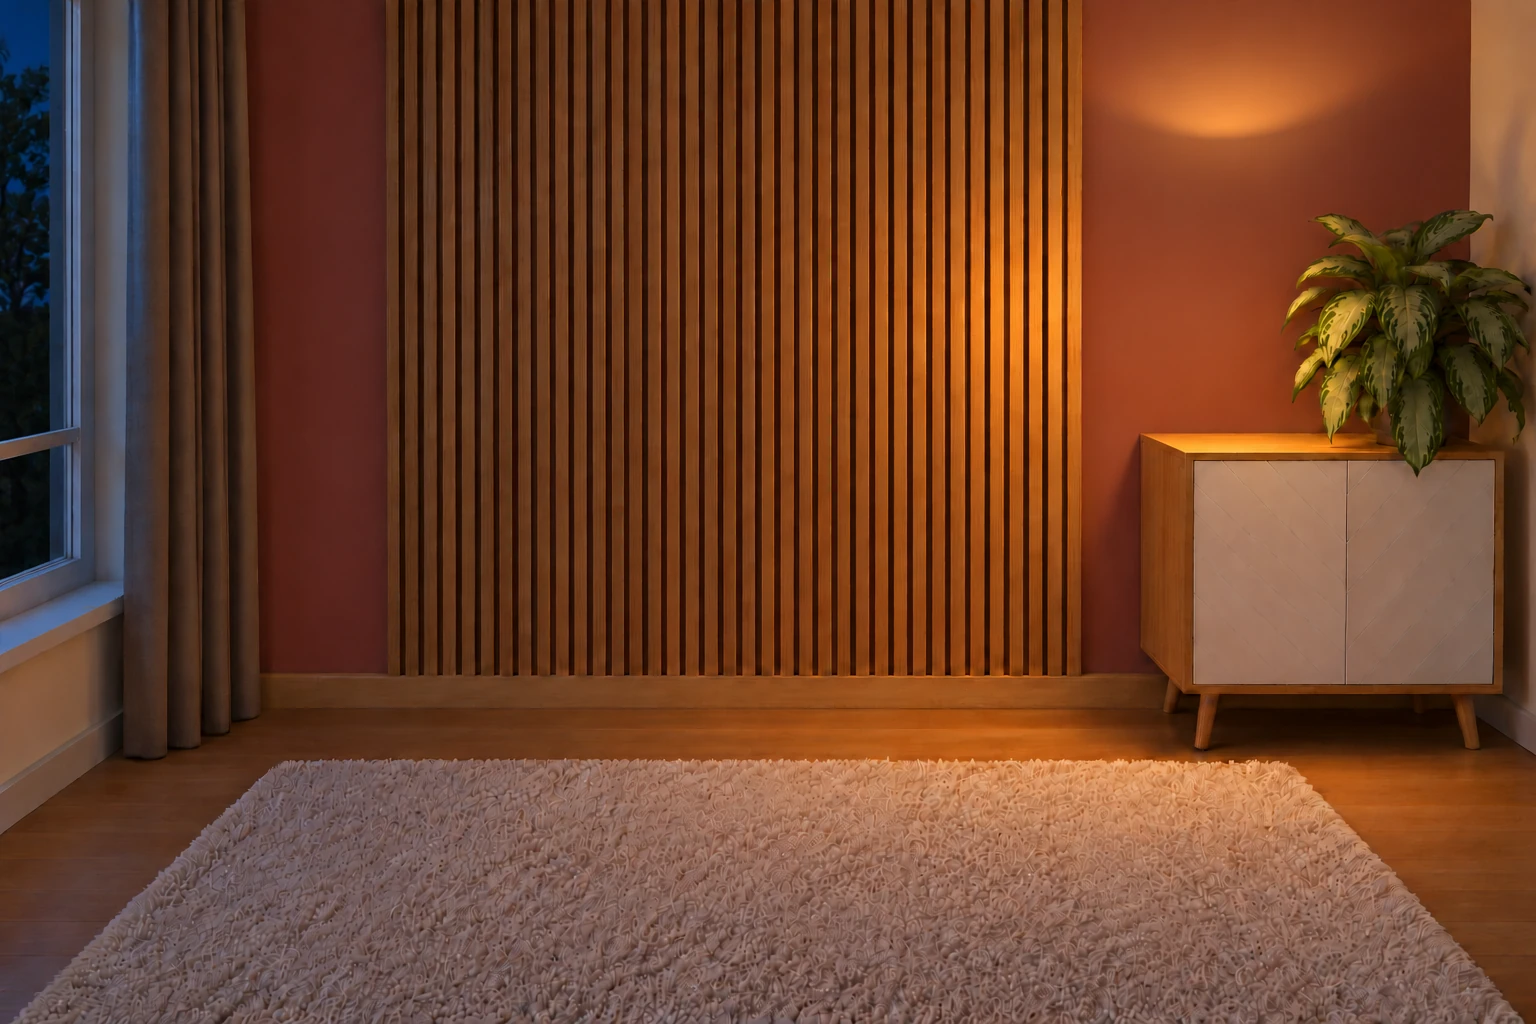
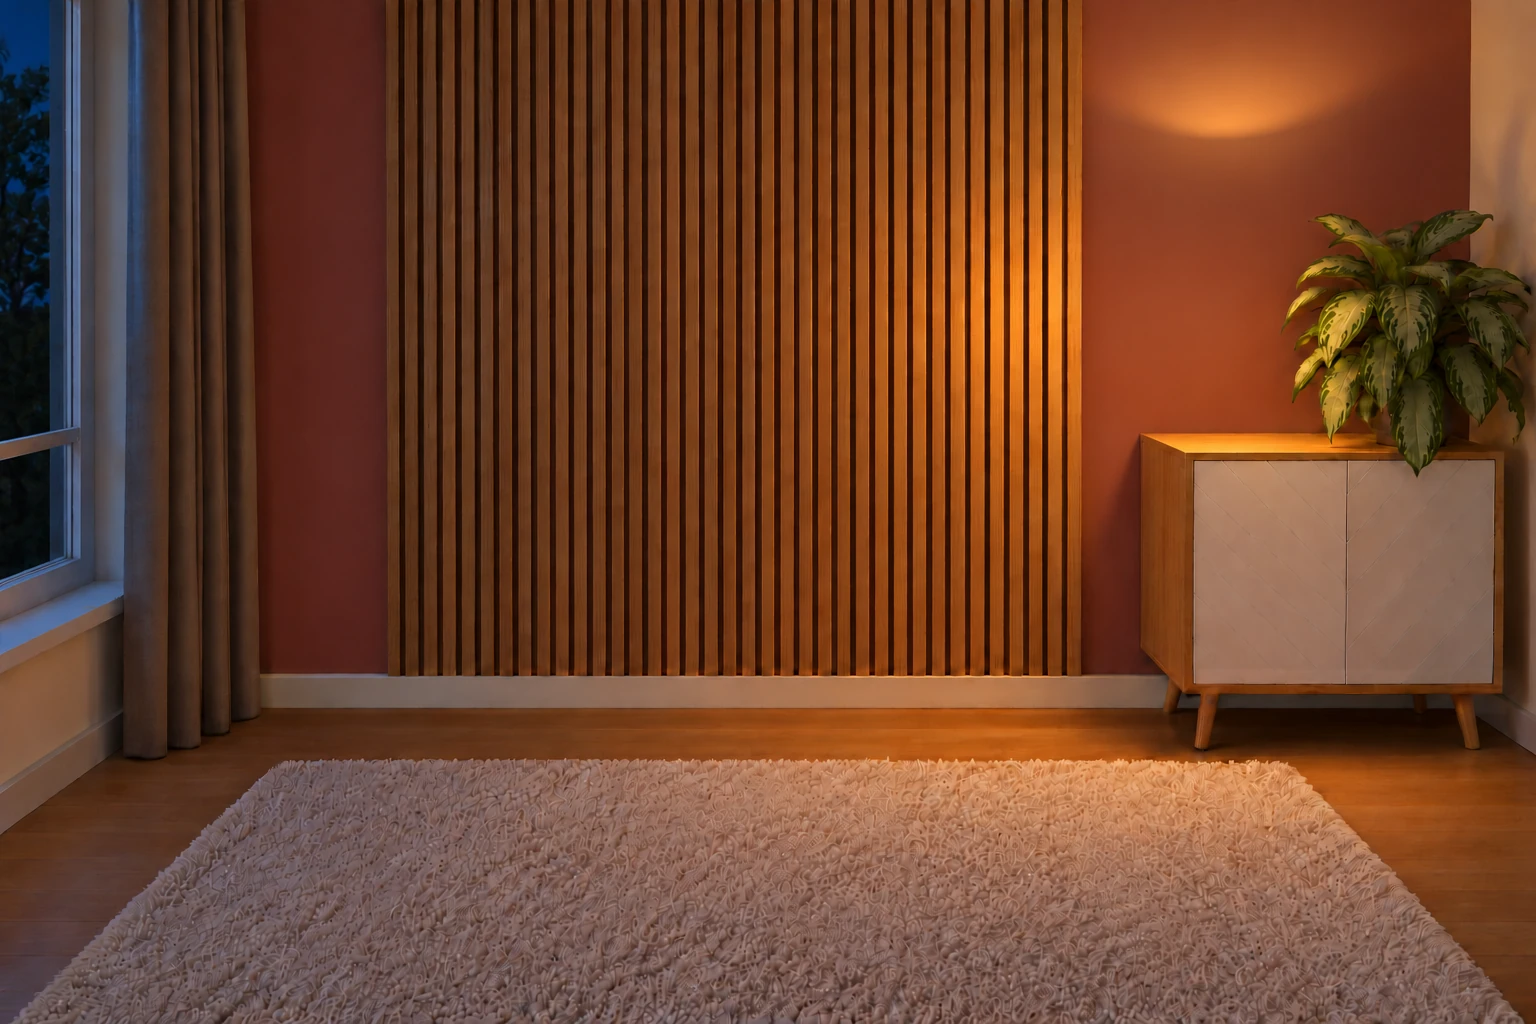
feat: paint the back wall's skirting board white
Repainted in both room plates with GPT-6 (codex exec), pasting only the
skirting strip onto the existing sources so the rest stays pixel-identical.
Bumps the room's cache version so the new plate is fetched.

Changed region(s): [[0.1562, 0.6562, 0.9062, 0.7188]]

diff --git a/src/components/OfficeScene.tsx b/src/components/OfficeScene.tsx
@@ -504,7 +504,7 @@ export function OfficeScene({ isDark, onToggleLamp, onType, onPause, onSound, on
             {(['day', 'night'] as const).map(mode => (
               <Image
                 key={mode}
-                src={`/images/office/scene/${mode === 'night' ? 'night/' : ''}${layer.id}.webp?v=${layer.id === 'character' ? 13 : layer.id === 'sonos' || layer.id === 'mac-studio' ? 17 : 11}`}
+                src={`/images/office/scene/${mode === 'night' ? 'night/' : ''}${layer.id}.webp?v=${layer.id === 'character' ? 13 : layer.id === 'room' ? 18 : layer.id === 'sonos' || layer.id === 'mac-studio' ? 17 : 11}`}
                 alt=""
                 aria-hidden="true"
                 width={1536}
